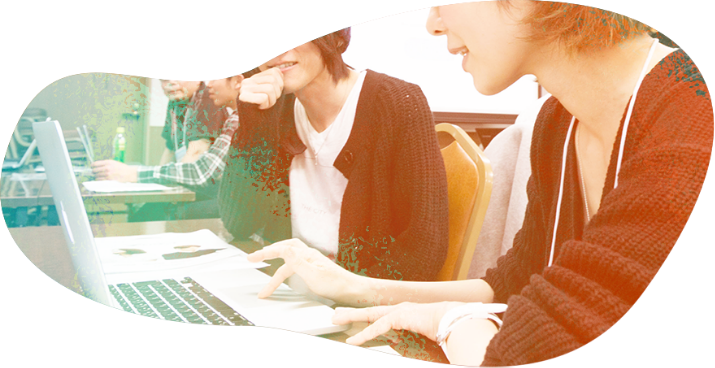
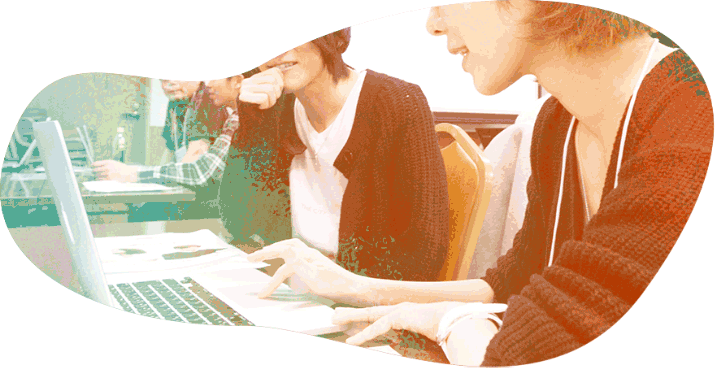
画像圧縮

diff --git a/assets/css/common.css b/assets/css/common.css
@@ -1,1 +1,1 @@
-/*! normalize.css v5.0.0 | MIT License | github.com/necolas/normalize.css */html{font-family:sans-serif;line-height:1.15;-ms-text-size-adjust:100%;-webkit-text-size-adjust:100%}body{margin:0}article,aside,footer,header,nav,section{display:block}h1{font-size:2em;margin:.67em 0}figcaption,figure,main{display:block}figure{margin:1em 40px}hr{box-sizing:content-box;height:0;overflow:visible}pre{font-family:monospace,monospace;font-size:1em}a{background-color:transparent;-webkit-text-decoration-skip:objects}a:active,a:hover{outline-width:0}abbr[title]{border-bottom:none;text-decoration:underline;text-decoration:underline dotted}b,strong{font-weight:inherit}b,strong{font-weight:bolder}code,kbd,samp{font-family:monospace,monospace;font-size:1em}dfn{font-style:italic}mark{background-color:#ff0;color:#000}small{font-size:80%}sub,sup{font-size:75%;line-height:0;position:relative;vertical-align:baseline}sub{bottom:-.25em}sup{top:-.5em}audio,video{display:inline-block}audio:not([controls]){display:none;height:0}img{border-style:none}svg:not(:root){overflow:hidden}button,input,optgroup,select,textarea{font-family:sans-serif;font-size:100%;line-height:1.15;margin:0}button,input{overflow:visible}button,select{text-transform:none}button,html [type=button],[type=reset],[type=submit]{-webkit-appearance:button}button::-moz-focus-inner,[type=button]::-moz-focus-inner,[type=reset]::-moz-focus-inner,[type=submit]::-moz-focus-inner{border-style:none;padding:0}button:-moz-focusring,[type=button]:-moz-focusring,[type=reset]:-moz-focusring,[type=submit]:-moz-focusring{outline:1px dotted ButtonText}fieldset{border:1px solid silver;margin:0 2px;padding:.35em .625em .75em}legend{box-sizing:border-box;color:inherit;display:table;max-width:100%;padding:0;white-space:normal}progress{display:inline-block;vertical-align:baseline}textarea{overflow:auto}[type=checkbox],[type=radio]{box-sizing:border-box;padding:0}[type=number]::-webkit-inner-spin-button,[type=number]::-webkit-outer-spin-button{height:auto}[type=search]{-webkit-appearance:textfield;outline-offset:-2px}[type=search]::-webkit-search-cancel-button,[type=search]::-webkit-search-decoration{-webkit-appearance:none}::-webkit-file-upload-button{-webkit-appearance:button;font:inherit}details,menu{display:block}summary{display:list-item}canvas{display:inline-block}template{display:none}[hidden]{display:none}body{width:100%;height:100%;font-size:15px;font-family:Capriola,Yu Gothic,YuGothic,sans-serif;font-weight:400;color:#95989a;line-height:1.8}body h1{-webkit-margin-before:0;-webkit-margin-after:0;-webkit-margin-start:0;-webkit-margin-end:0;font-weight:400}body h2{-webkit-margin-before:0;-webkit-margin-after:0;-webkit-margin-start:0;-webkit-margin-end:0;font-weight:400;font-size:20px;padding:.4em}body a{text-decoration:none}.container{max-width:980px;margin:0 auto;padding:0 20px}.background{width:100vw;height:100%;position:fixed;top:0;left:0;background-image:url(../../img/bg.png);background-size:cover;background-position:50% 50%;z-index:-1}#hero{padding:0 5px;padding-bottom:4.5em;color:#FFF;position:relative}#hero .hero__block{text-align:center}#hero .hero__block .bg__imgA{width:40vw;position:absolute;left:3vw;top:28px}#hero .hero__block .bg__imgB{margin-left:-10vw;width:22vw;position:absolute;left:50%;top:80px}#hero .hero__block .bg__imgC{width:33vw;position:absolute;right:2vw;top:50px}#hero .hero__block .bg__imgD{width:35vw;position:absolute;right:2vw;top:190px}#hero .hero__block .bg__imgE{margin-left:-20vw;width:30vw;position:absolute;left:50%;top:290px}#hero .hero__block .bg__imgF{width:27vw;position:absolute;left:3vw;top:200px}#hero .hero__title-area{z-index:100;margin:0 auto;margin-top:60px;display:inline-block;width:100%;height:270px;position:relative;background-image:url(../../img/frame@2x.png);background-size:contain;background-repeat:no-repeat;background-position:center}#hero .hero__title_block{margin:auto;width:50%;height:35%;position:absolute;top:0;right:0;bottom:0;left:0}#hero .hero__title{display:inline-block;font-size:25px;line-height:1.4}#hero .hero__infomation{margin:1.7em;font-size:1.2em;font-weight:700;font-family:Yu Gothic,YuGothic,sans-serif}#hero .hero__action-area{display:inline-block;width:100%}#hero .hero__action-area .btn{display:block}#hero .hero__action-area .btn a{margin-bottom:.6em;box-sizing:border-box;display:inline-block;border:4px solid #fff;padding:7px 0;min-width:280px;color:#95989a;font-weight:700;background:rgba(255,255,255,.7);border-radius:9999px;-webkit-transition:all .3s;transition:all .3s}#hero .hero__action-area .btn a:hover{color:#FFF;background:transparent;letter-spacing:4px}#concept{padding-bottom:4.5em;background:-webkit-linear-gradient(top,rgba(254,225,176,.01) 0,rgba(255,253,240,.58) 38%,rgba(255,255,251,.9) 59%,rgba(255,255,255,.9) 66%);background:linear-gradient(to bottom,rgba(254,225,176,.01) 0,rgba(255,253,240,.58) 38%,rgba(255,255,251,.9) 59%,rgba(255,255,255,.9) 66%)}#concept .container{text-align:center;max-width:1200px}#concept .concept__heading{color:#FFF;font-size:20px}#concept .concept__heading:before{content:"";display:block;width:100%;height:20px;background:url(../../img/heading_white.png) no-repeat;background-position:center;background-size:auto 100%}#concept .concept__heading:after{content:"";display:block;width:100%;height:20px;background:url(../../img/heading_white.png) no-repeat;background-position:center;background-size:auto 100%}#concept .concept__block{margin-top:2em;background:url(../../img/concept_bg_sp.png);background-position:top center;background-size:100% 100%;background-repeat:no-repeat}#concept .concept__text{margin-top:40px;padding-bottom:80px;display:inline-block;max-width:250px;font-family:Yu Gothic,YuGothic,sans-serif}#concept .concept__text p{margin:2em 0;line-height:2}#concept .concept__text .en{margin:0 .5em;font-size:1.1em;font-weight:700;letter-spacing:3px}#share{background:rgba(255,255,255,.9)}#share .container{padding-bottom:4.5em;text-align:center;overflow:hidden;position:relative}#share .share__heading{font-size:20px}#share .share__heading:before{content:"";display:block;width:100%;height:20px;background:url(../../img/heading_color.png) no-repeat;background-position:center;background-size:auto 100%}#share .share__heading:after{content:"";display:block;width:100%;height:20px;background:url(../../img/heading_color.png) no-repeat;background-position:center;background-size:auto 100%}#share .opacoty{opacity:.1;-ms-filter:"progid:DXImageTransform.Microsoft.Alpha(Opacity=10)"}#share .bg__imgA{width:40vw;position:absolute;left:3vw;top:28px}#share .bg__imgB{margin-left:-10vw;width:22vw;position:absolute;left:50%;top:80px}#share .bg__imgC{width:33vw;position:absolute;right:2vw;top:50px}#share .bg__imgD{width:35vw;position:absolute;right:2vw;top:190px}#share .bg__imgE{margin-left:-20vw;width:30vw;position:absolute;left:50%;top:290px}#share .bg__imgF{width:27vw;position:absolute;left:3vw;top:200px}#share .share__intoro{position:relative;z-index:1;padding:2em}#share .share__intoro .en{margin:0 .5em;font-size:1.1em;font-weight:700;letter-spacing:3px}#share .share__action-area{position:relative;z-index:1}#share .share__action-area .btn--tw{display:block}#share .share__action-area .btn--tw a{margin-bottom:.6em;display:inline-block;padding:5px 0;min-width:280px;color:#95989a;font-weight:700;background:#f28368;background:-webkit-linear-gradient(left,#f28368 27%,#57c0ed 100%);background:linear-gradient(to right,#f28368 27%,#57c0ed 100%);border-radius:9999px;-webkit-transition:all 1s;transition:all 1s}#share .share__action-area .btn--tw a:hover span{color:#FFF;background:transparent;letter-spacing:2px}#share .share__action-area .btn--tw span{display:inline-block;padding:5px 0;width:96%;height:90%;color:#95989a;font-weight:700;background:#fff;border-radius:9999px;-webkit-transition:all .3s;transition:all .3s}#share .share__action-area .btn--tw span:before{display:inline-block;padding-right:8px;vertical-align:middle;font-family:FontAwesome;font-size:20px;content:"\f099"}#share .share__action-area .btn--fb{display:block}#share .share__action-area .btn--fb a{margin-bottom:.6em;display:inline-block;padding:5px 0;min-width:280px;color:#95989a;font-weight:700;background:#f28368;background:-webkit-linear-gradient(left,#f28368 27%,#57c0ed 100%);background:linear-gradient(to right,#f28368 27%,#57c0ed 100%);border-radius:9999px;-webkit-transition:all 1s;transition:all 1s}#share .share__action-area .btn--fb a:hover span{color:#FFF;background:transparent;letter-spacing:2px}#share .share__action-area .btn--fb span{display:inline-block;padding:5px 0;width:96%;height:90%;color:#95989a;font-weight:700;background:#fff;border-radius:9999px;-webkit-transition:all .3s;transition:all .3s}#share .share__action-area .btn--fb span:before{display:inline-block;padding-right:8px;vertical-align:middle;font-family:FontAwesome;font-size:20px;content:"\f09a"}#footer{padding:20px 0 40px;font-size:13px;background:rgba(64,98,111,.8)}#footer .container{text-align:center}#footer .footer__sns-area{margin:.5em 0 2em}#footer .footer__sns-area .btn{display:inline-block;margin:0 .2em}#footer .footer__sns-area .btn a{margin-bottom:5px;box-sizing:border-box;display:inline-block;border:2px solid #fff;padding:2px 0;min-width:100px;color:#40626f;font-weight:700;font-size:10px;background:rgba(255,255,255,.7);border-radius:9999px;-webkit-transition:all .3s;transition:all .3s}#footer .footer__sns-area .btn a:hover{color:#FFF;background:transparent;letter-spacing:1px}#footer .footer__logo{display:inline-block;max-width:180px}#footer .footer__lead{line-height:1.2;color:#FFF}#footer .footer__lead a{color:#30ade3;-webkit-transition:all .3s;transition:all .3s}#footer .footer__lead a:hover{color:#ec7150}@media screen and (min-width:801px){body{font-size:18px}#hero .hero__block{margin:2em auto 0;max-width:1200px;position:relative}#hero .hero__block .bg__imgA{width:27%;left:4%}#hero .hero__block .bg__imgB{margin-left:0;width:16%;left:42%;top:10px}#hero .hero__block .bg__imgC{width:23%;right:2%}#hero .hero__block .bg__imgD{width:27%;top:260px;right:5%}#hero .hero__block .bg__imgE{margin-left:0;width:22%;left:35%;top:450px}#hero .hero__block .bg__imgF{width:16%;top:340px;left:14%}#hero .hero__title-area{height:480px}#hero .hero__title{font-size:2.5em}#hero .hero__infomation{margin-top:3em;font-size:1.4em}#hero .hero__action-area .btn{display:inline-block;padding:10px 0;margin:0 .5em}#concept .concept__heading:before{display:block}#concept .concept__heading .title{display:inline-block}#concept .concept__heading:before{content:"";display:inline-block;max-width:300px;height:20px;background:url(../../img/heading_white.png) no-repeat;background-position:center;background-size:80%}#concept .concept__heading:after{content:"";display:inline-block;max-width:300px;height:20px;background:url(../../img/heading_white.png) no-repeat;background-position:center;background-size:80%}#concept .concept__heading{position:relative}#concept .concept__block{background:url(../../img/concept_bg.png) no-repeat;background-position:50% 50%;background-size:contain;min-width:100%}#concept .concept__text{max-width:750px}#share .share__heading:before{display:block}#share .share__heading .title{display:inline-block}#share .share__heading:before{content:"";display:inline-block;max-width:300px;height:20px;background:url(../../img/heading_color.png) no-repeat;background-position:center;background-size:80%}#share .share__heading:after{content:"";display:inline-block;max-width:300px;height:20px;background:url(../../img/heading_color.png) no-repeat;background-position:center;background-size:80%}#share .bg__imgA{width:27%;left:4%}#share .bg__imgB{margin-left:0;width:16%;left:42%;top:10px}#share .bg__imgC{width:23%;right:2%;top:3%}#share .bg__imgD{width:27%;top:40%;right:5%}#share .bg__imgE{margin-left:0;width:22%;left:35%;top:60%}#share .bg__imgF{width:16%;top:60%;left:14%}#share .share__intoro{padding:4em 0}#share .share__action-area .btn--tw{display:inline-block;margin:0 .5em}#share .share__action-area .btn--fb{display:inline-block;margin:0 .5em}}@media screen and (min-width:450px) and (max-width:800px){#hero .hero__block .bg__imgA{width:29vw;top:10px;left:8vw}#hero .hero__block .bg__imgB{top:30px}#hero .hero__block .bg__imgC{width:28vw;top:20px;right:5vw}#hero .hero__block .bg__imgD{width:28vw;top:170px;right:6vw}#hero .hero__block .bg__imgE{margin-left:-13vw;width:24vw;top:270px}#hero .hero__block .bg__imgF{top:210px;width:21vw;left:12vw}#share .bg__imgA{width:29vw;top:10px;left:8vw}#share .bg__imgB{top:30px}#share .bg__imgC{width:28vw;top:20px;right:5vw}#share .bg__imgD{width:28vw;top:170px;right:6vw}#share .bg__imgE{margin-left:-13vw;width:24vw;top:270px}#share .bg__imgF{top:210px;width:21vw;left:12vw}}@media screen and (min-width:801px) and (min-width:801px){#concept .concept__heading .title{font-size:1.1em}#concept .concept__heading:before{position:absolute;left:0;top:15px}#concept .concept__heading:after{position:absolute;right:0;top:15px}#share .share__heading .title{font-size:1.1em}#share .share__heading:before{position:absolute;left:0;top:15px}#share .share__heading:after{position:absolute;right:0;top:15px}}
+/*! normalize.css v5.0.0 | MIT License | github.com/necolas/normalize.css */html{font-family:sans-serif;line-height:1.15;-ms-text-size-adjust:100%;-webkit-text-size-adjust:100%}body{margin:0}article,aside,footer,header,nav,section{display:block}h1{font-size:2em;margin:.67em 0}figcaption,figure,main{display:block}figure{margin:1em 40px}hr{box-sizing:content-box;height:0;overflow:visible}pre{font-family:monospace,monospace;font-size:1em}a{background-color:transparent;-webkit-text-decoration-skip:objects}a:active,a:hover{outline-width:0}abbr[title]{border-bottom:none;text-decoration:underline;text-decoration:underline dotted}b,strong{font-weight:inherit}b,strong{font-weight:bolder}code,kbd,samp{font-family:monospace,monospace;font-size:1em}dfn{font-style:italic}mark{background-color:#ff0;color:#000}small{font-size:80%}sub,sup{font-size:75%;line-height:0;position:relative;vertical-align:baseline}sub{bottom:-.25em}sup{top:-.5em}audio,video{display:inline-block}audio:not([controls]){display:none;height:0}img{border-style:none}svg:not(:root){overflow:hidden}button,input,optgroup,select,textarea{font-family:sans-serif;font-size:100%;line-height:1.15;margin:0}button,input{overflow:visible}button,select{text-transform:none}button,html [type=button],[type=reset],[type=submit]{-webkit-appearance:button}button::-moz-focus-inner,[type=button]::-moz-focus-inner,[type=reset]::-moz-focus-inner,[type=submit]::-moz-focus-inner{border-style:none;padding:0}button:-moz-focusring,[type=button]:-moz-focusring,[type=reset]:-moz-focusring,[type=submit]:-moz-focusring{outline:1px dotted ButtonText}fieldset{border:1px solid silver;margin:0 2px;padding:.35em .625em .75em}legend{box-sizing:border-box;color:inherit;display:table;max-width:100%;padding:0;white-space:normal}progress{display:inline-block;vertical-align:baseline}textarea{overflow:auto}[type=checkbox],[type=radio]{box-sizing:border-box;padding:0}[type=number]::-webkit-inner-spin-button,[type=number]::-webkit-outer-spin-button{height:auto}[type=search]{-webkit-appearance:textfield;outline-offset:-2px}[type=search]::-webkit-search-cancel-button,[type=search]::-webkit-search-decoration{-webkit-appearance:none}::-webkit-file-upload-button{-webkit-appearance:button;font:inherit}details,menu{display:block}summary{display:list-item}canvas{display:inline-block}template{display:none}[hidden]{display:none}body{width:100%;height:100%;font-size:15px;font-family:Capriola,Yu Gothic,YuGothic,sans-serif;font-weight:400;color:#95989a;line-height:1.8}body h1{-webkit-margin-before:0;-webkit-margin-after:0;-webkit-margin-start:0;-webkit-margin-end:0;font-weight:400}body h2{-webkit-margin-before:0;-webkit-margin-after:0;-webkit-margin-start:0;-webkit-margin-end:0;font-weight:400;font-size:20px;padding:.4em}body a{text-decoration:none}.container{max-width:980px;margin:0 auto;padding:0 20px}.background{width:100vw;height:100%;position:fixed;top:0;left:0;background-image:url(../../img/bg.jpg);background-size:cover;background-position:50% 50%;z-index:-1}#hero{padding:0 5px;padding-bottom:4.5em;color:#FFF;position:relative}#hero .hero__block{text-align:center}#hero .hero__block .bg__imgA{width:40vw;position:absolute;left:3vw;top:28px}#hero .hero__block .bg__imgB{margin-left:-10vw;width:22vw;position:absolute;left:50%;top:80px}#hero .hero__block .bg__imgC{width:33vw;position:absolute;right:2vw;top:50px}#hero .hero__block .bg__imgD{width:35vw;position:absolute;right:2vw;top:190px}#hero .hero__block .bg__imgE{margin-left:-20vw;width:30vw;position:absolute;left:50%;top:290px}#hero .hero__block .bg__imgF{width:27vw;position:absolute;left:3vw;top:200px}#hero .hero__title-area{z-index:100;margin:0 auto;margin-top:60px;display:inline-block;width:100%;height:270px;position:relative;background-image:url(../../img/frame@2x.png);background-size:contain;background-repeat:no-repeat;background-position:center}#hero .hero__title_block{margin:auto;width:50%;height:35%;position:absolute;top:0;right:0;bottom:0;left:0}#hero .hero__title{display:inline-block;font-size:25px;line-height:1.4}#hero .hero__infomation{margin:1.7em;font-size:1.2em;font-weight:700;font-family:Yu Gothic,YuGothic,sans-serif}#hero .hero__action-area{display:inline-block;width:100%}#hero .hero__action-area .btn{display:block}#hero .hero__action-area .btn a{margin-bottom:.6em;box-sizing:border-box;display:inline-block;border:4px solid #fff;padding:7px 0;min-width:280px;color:#95989a;font-weight:700;background:rgba(255,255,255,.7);border-radius:9999px;-webkit-transition:all .3s;transition:all .3s}#hero .hero__action-area .btn a:hover{color:#FFF;background:transparent;letter-spacing:4px}#concept{padding-bottom:4.5em;background:-webkit-linear-gradient(top,rgba(254,225,176,.01) 0,rgba(255,253,240,.58) 38%,rgba(255,255,251,.9) 59%,rgba(255,255,255,.9) 66%);background:linear-gradient(to bottom,rgba(254,225,176,.01) 0,rgba(255,253,240,.58) 38%,rgba(255,255,251,.9) 59%,rgba(255,255,255,.9) 66%)}#concept .container{text-align:center;max-width:1200px}#concept .concept__heading{color:#FFF;font-size:20px}#concept .concept__heading:before{content:"";display:block;width:100%;height:20px;background:url(../../img/heading_white.png) no-repeat;background-position:center;background-size:auto 100%}#concept .concept__heading:after{content:"";display:block;width:100%;height:20px;background:url(../../img/heading_white.png) no-repeat;background-position:center;background-size:auto 100%}#concept .concept__block{margin-top:2em;background:url(../../img/concept_bg_sp.png);background-position:top center;background-size:100% 100%;background-repeat:no-repeat}#concept .concept__text{margin-top:40px;padding-bottom:80px;display:inline-block;max-width:250px;font-family:Yu Gothic,YuGothic,sans-serif}#concept .concept__text p{margin:2em 0;line-height:2}#concept .concept__text .en{margin:0 .5em;font-size:1.1em;font-weight:700;letter-spacing:3px}#share{background:rgba(255,255,255,.9)}#share .container{padding-bottom:4.5em;text-align:center;overflow:hidden;position:relative}#share .share__heading{font-size:20px}#share .share__heading:before{content:"";display:block;width:100%;height:20px;background:url(../../img/heading_color.png) no-repeat;background-position:center;background-size:auto 100%}#share .share__heading:after{content:"";display:block;width:100%;height:20px;background:url(../../img/heading_color.png) no-repeat;background-position:center;background-size:auto 100%}#share .opacoty{opacity:.1;-ms-filter:"progid:DXImageTransform.Microsoft.Alpha(Opacity=10)"}#share .bg__imgA{width:40vw;position:absolute;left:3vw;top:28px}#share .bg__imgB{margin-left:-10vw;width:22vw;position:absolute;left:50%;top:80px}#share .bg__imgC{width:33vw;position:absolute;right:2vw;top:50px}#share .bg__imgD{width:35vw;position:absolute;right:2vw;top:190px}#share .bg__imgE{margin-left:-20vw;width:30vw;position:absolute;left:50%;top:290px}#share .bg__imgF{width:27vw;position:absolute;left:3vw;top:200px}#share .share__intoro{position:relative;z-index:1;padding:2em}#share .share__intoro .en{margin:0 .5em;font-size:1.1em;font-weight:700;letter-spacing:3px}#share .share__action-area{position:relative;z-index:1}#share .share__action-area .btn--tw{display:block}#share .share__action-area .btn--tw a{margin-bottom:.6em;display:inline-block;padding:5px 0;min-width:280px;color:#95989a;font-weight:700;background:#f28368;background:-webkit-linear-gradient(left,#f28368 27%,#57c0ed 100%);background:linear-gradient(to right,#f28368 27%,#57c0ed 100%);border-radius:9999px;-webkit-transition:all 1s;transition:all 1s}#share .share__action-area .btn--tw a:hover span{color:#FFF;background:transparent;letter-spacing:2px}#share .share__action-area .btn--tw span{display:inline-block;padding:5px 0;width:96%;height:90%;color:#95989a;font-weight:700;background:#fff;border-radius:9999px;-webkit-transition:all .3s;transition:all .3s}#share .share__action-area .btn--tw span:before{display:inline-block;padding-right:8px;vertical-align:middle;font-family:FontAwesome;font-size:20px;content:"\f099"}#share .share__action-area .btn--fb{display:block}#share .share__action-area .btn--fb a{margin-bottom:.6em;display:inline-block;padding:5px 0;min-width:280px;color:#95989a;font-weight:700;background:#f28368;background:-webkit-linear-gradient(left,#f28368 27%,#57c0ed 100%);background:linear-gradient(to right,#f28368 27%,#57c0ed 100%);border-radius:9999px;-webkit-transition:all 1s;transition:all 1s}#share .share__action-area .btn--fb a:hover span{color:#FFF;background:transparent;letter-spacing:2px}#share .share__action-area .btn--fb span{display:inline-block;padding:5px 0;width:96%;height:90%;color:#95989a;font-weight:700;background:#fff;border-radius:9999px;-webkit-transition:all .3s;transition:all .3s}#share .share__action-area .btn--fb span:before{display:inline-block;padding-right:8px;vertical-align:middle;font-family:FontAwesome;font-size:20px;content:"\f09a"}#footer{padding:20px 0 40px;font-size:13px;background:rgba(64,98,111,.8)}#footer .container{text-align:center}#footer .footer__sns-area{margin:.5em 0 2em}#footer .footer__sns-area .btn{display:inline-block;margin:0 .2em}#footer .footer__sns-area .btn a{margin-bottom:5px;box-sizing:border-box;display:inline-block;border:2px solid #fff;padding:2px 0;min-width:100px;color:#40626f;font-weight:700;font-size:10px;background:rgba(255,255,255,.7);border-radius:9999px;-webkit-transition:all .3s;transition:all .3s}#footer .footer__sns-area .btn a:hover{color:#FFF;background:transparent;letter-spacing:1px}#footer .footer__logo{display:inline-block;max-width:180px}#footer .footer__lead{line-height:1.2;color:#FFF}#footer .footer__lead a{color:#30ade3;-webkit-transition:all .3s;transition:all .3s}#footer .footer__lead a:hover{color:#ec7150}@media screen and (min-width:801px){body{font-size:18px}#hero .hero__block{margin:2em auto 0;max-width:1200px;position:relative}#hero .hero__block .bg__imgA{width:27%;left:4%}#hero .hero__block .bg__imgB{margin-left:0;width:16%;left:42%;top:10px}#hero .hero__block .bg__imgC{width:23%;right:2%}#hero .hero__block .bg__imgD{width:27%;top:260px;right:5%}#hero .hero__block .bg__imgE{margin-left:0;width:22%;left:35%;top:450px}#hero .hero__block .bg__imgF{width:16%;top:340px;left:14%}#hero .hero__title-area{height:480px}#hero .hero__title{font-size:2.5em}#hero .hero__infomation{margin-top:3em;font-size:1.4em}#hero .hero__action-area .btn{display:inline-block;padding:10px 0;margin:0 .5em}#concept .concept__heading:before{display:block}#concept .concept__heading .title{display:inline-block}#concept .concept__heading:before{content:"";display:inline-block;max-width:300px;height:20px;background:url(../../img/heading_white.png) no-repeat;background-position:center;background-size:80%}#concept .concept__heading:after{content:"";display:inline-block;max-width:300px;height:20px;background:url(../../img/heading_white.png) no-repeat;background-position:center;background-size:80%}#concept .concept__heading{position:relative}#concept .concept__block{background:url(../../img/concept_bg.png) no-repeat;background-position:50% 50%;background-size:contain;min-width:100%}#concept .concept__text{max-width:750px}#share .share__heading:before{display:block}#share .share__heading .title{display:inline-block}#share .share__heading:before{content:"";display:inline-block;max-width:300px;height:20px;background:url(../../img/heading_color.png) no-repeat;background-position:center;background-size:80%}#share .share__heading:after{content:"";display:inline-block;max-width:300px;height:20px;background:url(../../img/heading_color.png) no-repeat;background-position:center;background-size:80%}#share .bg__imgA{width:27%;left:4%}#share .bg__imgB{margin-left:0;width:16%;left:42%;top:10px}#share .bg__imgC{width:23%;right:2%;top:3%}#share .bg__imgD{width:27%;top:40%;right:5%}#share .bg__imgE{margin-left:0;width:22%;left:35%;top:60%}#share .bg__imgF{width:16%;top:60%;left:14%}#share .share__intoro{padding:4em 0}#share .share__action-area .btn--tw{display:inline-block;margin:0 .5em}#share .share__action-area .btn--fb{display:inline-block;margin:0 .5em}}@media screen and (min-width:450px) and (max-width:800px){#hero .hero__block .bg__imgA{width:29vw;top:10px;left:8vw}#hero .hero__block .bg__imgB{top:30px}#hero .hero__block .bg__imgC{width:28vw;top:20px;right:5vw}#hero .hero__block .bg__imgD{width:28vw;top:170px;right:6vw}#hero .hero__block .bg__imgE{margin-left:-13vw;width:24vw;top:270px}#hero .hero__block .bg__imgF{top:210px;width:21vw;left:12vw}#share .bg__imgA{width:29vw;top:10px;left:8vw}#share .bg__imgB{top:30px}#share .bg__imgC{width:28vw;top:20px;right:5vw}#share .bg__imgD{width:28vw;top:170px;right:6vw}#share .bg__imgE{margin-left:-13vw;width:24vw;top:270px}#share .bg__imgF{top:210px;width:21vw;left:12vw}}@media screen and (min-width:801px) and (min-width:801px){#concept .concept__heading .title{font-size:1.1em}#concept .concept__heading:before{position:absolute;left:0;top:15px}#concept .concept__heading:after{position:absolute;right:0;top:15px}#share .share__heading .title{font-size:1.1em}#share .share__heading:before{position:absolute;left:0;top:15px}#share .share__heading:after{position:absolute;right:0;top:15px}}

diff --git a/index.html b/index.html
@@ -23,7 +23,6 @@
     <meta name="twitter:description" content="今年も開催！大阪夏、フロントエンドの最先端を目指すWebの祭典、Grand Frontend Osaka 2016！">
     <meta name="twitter:image" content="http://kfug.jp/gfo2016/img/ogp.png">
     <script src="https://ajax.googleapis.com/ajax/libs/jquery/2.2.2/jquery.min.js"></script>
-    <script src="./lib/wow.min.js"></script>
     <script type="text/javascript" src="./assets/js/common.bundle.js"></script>
   </head>
   <body>
